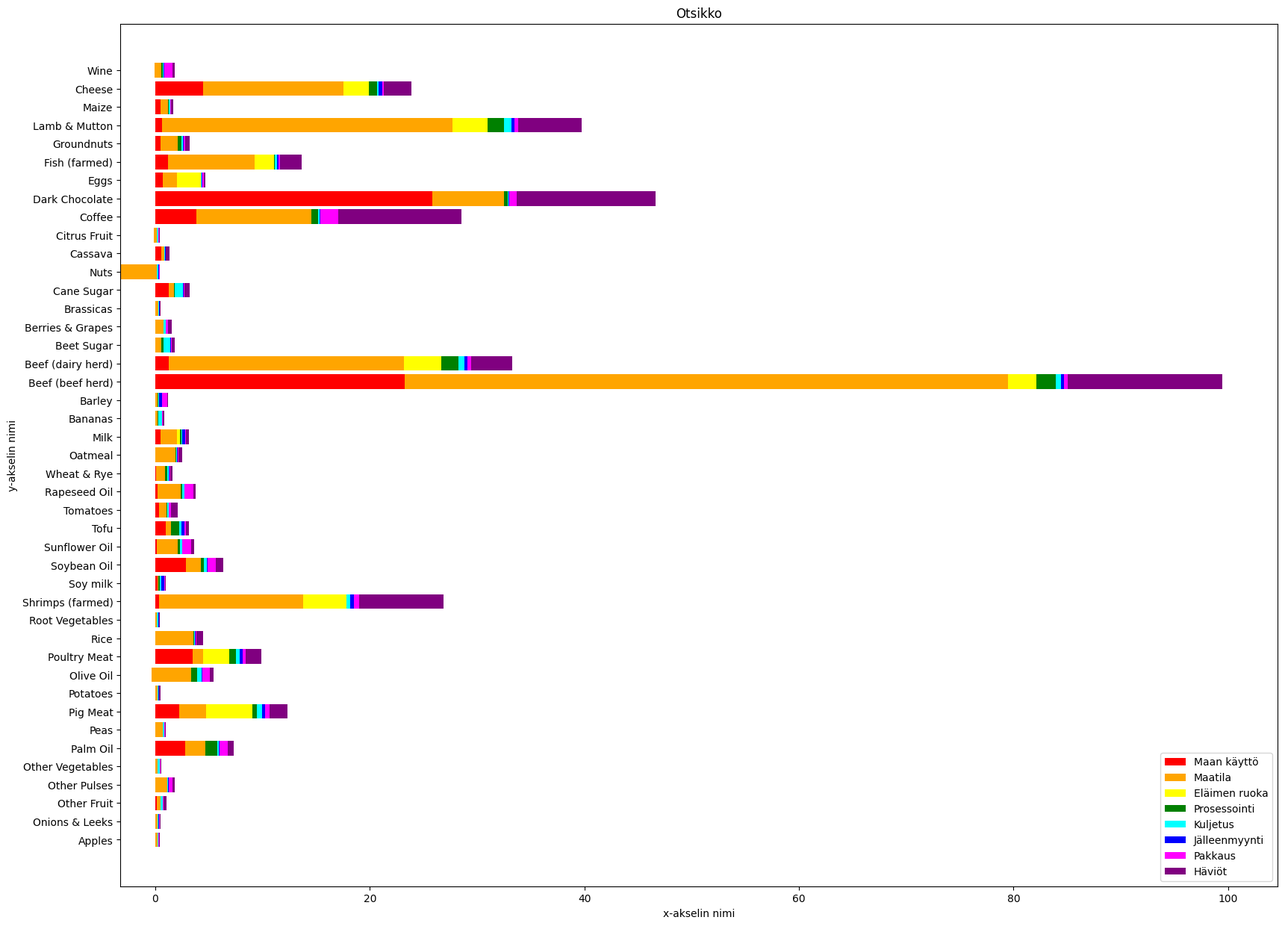
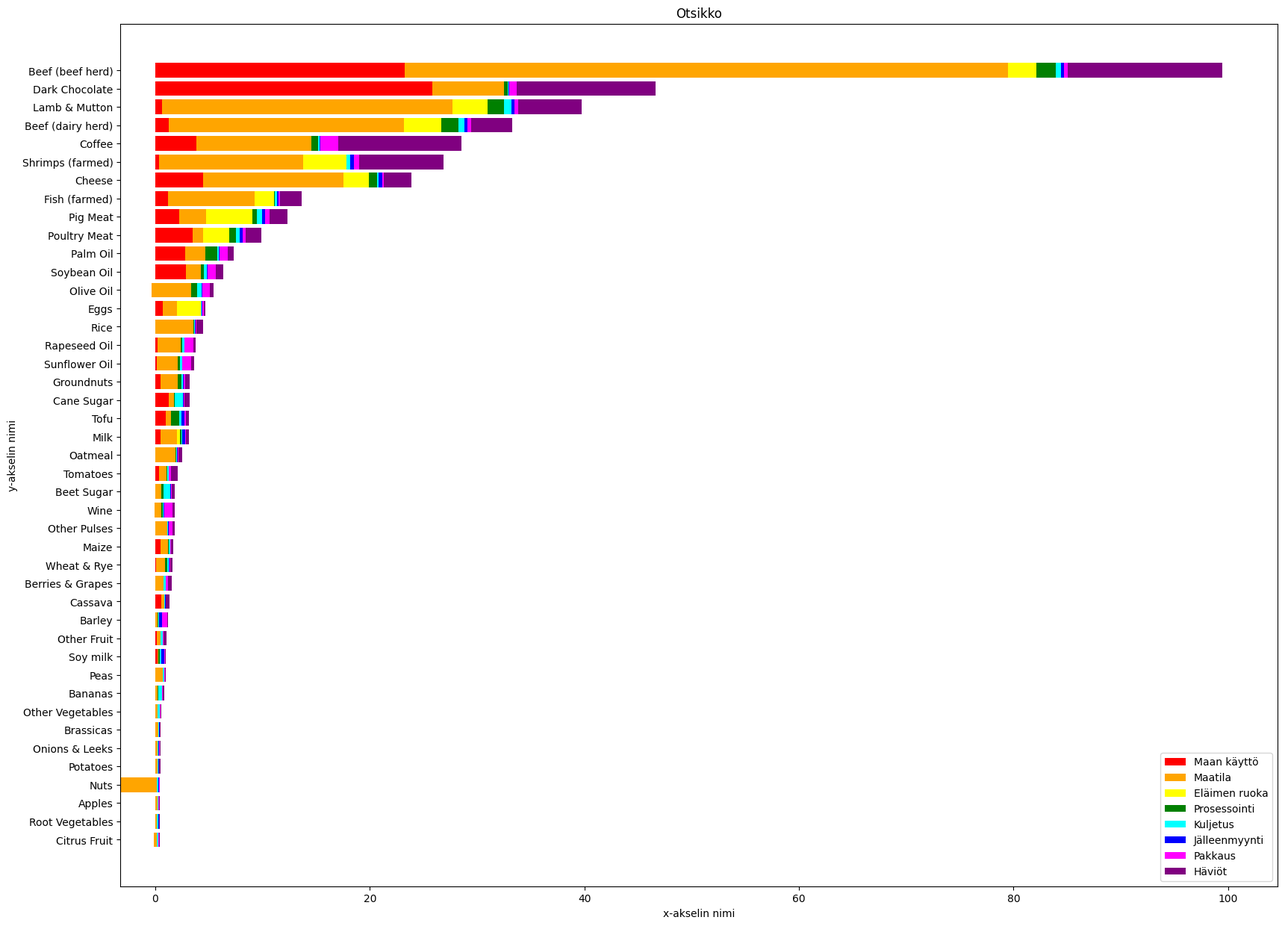
deploy: 84378028257fc03b229e8eb6b6ce66b5f5c8b4b9

Changed region(s): [[0.0308, 0.0613, 0.9547, 0.4597], [0.0308, 0.4903, 0.3388, 0.9194]]

diff --git a/searchindex.js b/searchindex.js
@@ -1,1 +1,1 @@
-Search.setIndex({docnames:["harjoitukset/mallipohjat","harjoitukset/pylvasdiagrammi1","harjoitukset/viivakuvaaja1","harjoitukset/viivakuvaaja2","intro"],envversion:{"sphinx.domains.c":2,"sphinx.domains.changeset":1,"sphinx.domains.citation":1,"sphinx.domains.cpp":5,"sphinx.domains.index":1,"sphinx.domains.javascript":2,"sphinx.domains.math":2,"sphinx.domains.python":3,"sphinx.domains.rst":2,"sphinx.domains.std":2,"sphinx.ext.intersphinx":1,sphinx:56},filenames:["harjoitukset/mallipohjat.md","harjoitukset/pylvasdiagrammi1.ipynb","harjoitukset/viivakuvaaja1.ipynb","harjoitukset/viivakuvaaja2.ipynb","intro.md"],objects:{},objnames:{},objtypes:{},terms:{"0":[1,2,3],"000000":1,"003820":1,"008676":1,"016578":1,"020981":1,"025534":1,"028951":1,"035351":1,"044526":1,"060146":1,"065670":1,"070692":1,"070808":1,"095804":1,"1":3,"10":[1,3],"1000":2,"1020":2,"1030":2,"11":[2,3],"12":[1,3],"127703":1,"13":3,"14":[1,3],"140":3,"15":[1,3],"16":3,"17":3,"175185":1,"176377":1,"18":3,"1850":2,"1860":2,"1870":2,"19":3,"1900":3,"1910":3,"1920":3,"1930":[2,3],"1940":[2,3],"1950":[2,3],"1960":[2,3],"1961":2,"1962":2,"1963":2,"1964":2,"1965":2,"1966":2,"1967":2,"1968":2,"1969":2,"1970":[2,3],"1971":2,"1972":2,"1973":2,"1974":2,"1975":2,"1976":2,"1977":2,"1978":2,"1979":2,"1980":[2,3],"1981":2,"1982":2,"1983":2,"1984":2,"1985":2,"1986":2,"1987":2,"1988":2,"1989":2,"1990":[2,3],"1991":2,"1992":2,"1993":2,"1994":2,"1995":2,"1996":2,"1997":2,"1998":2,"1999":2,"2":[1,2],"20":[1,3],"2000":[2,3],"2001":[2,3],"2002":[2,3],"2003":[2,3],"2004":[2,3],"2005":[2,3],"2006":[2,3],"2007":[2,3],"2008":[2,3],"2009":[2,3],"2010":[2,3],"2011":[2,3],"2012":[2,3],"2013":[2,3],"2014":[2,3],"2015":[2,3],"2016":3,"2017":3,"2018":[1,3],"2019":3,"2020":3,"2021":3,"2030":2,"21":[1,3],"22":3,"2200":2,"2250":2,"225816":1,"228063":1,"23":[1,3],"233538":1,"2360":2,"237536":1,"24":3,"2480":2,"25":3,"254032":1,"26":3,"263587":1,"266022":1,"267":2,"2680":2,"269":2,"269618":1,"27":3,"273":2,"276":2,"279":2,"28":3,"280":2,"282":2,"286":2,"2890":2,"29":3,"294":2,"295830":1,"298":2,"3":[1,2,3],"30":3,"301":2,"306":2,"3070":2,"31":3,"3130":2,"315":2,"319":2,"324":2,"334":2,"3340":2,"343":2,"350":2,"352084":1,"357":2,"363":2,"365":2,"3670":2,"371":2,"374549":1,"385":2,"3870":2,"389":2,"3940":2,"397":2,"399":2,"4":[1,2,3],"415":2,"416":2,"417":2,"4180":2,"4190":2,"421":2,"424":2,"4380":2,"439998":1,"440":2,"4460":2,"450":2,"4510":2,"4520":2,"459":2,"466":2,"4660":2,"472":2,"4810":2,"4820":2,"485":2,"4910":2,"492":2,"4930":2,"494125":1,"4960":2,"496786":1,"5":[2,3],"502":2,"503673":1,"51":2,"515":2,"5150":2,"521":2,"522":2,"5270":2,"534":2,"5380":2,"545":2,"547664":1,"5480":2,"552":2,"5590":2,"56":1,"562":2,"5620":2,"5660":2,"5690":2,"57":2,"5740":2,"5750":2,"578":2,"5920":2,"592410":1,"5960":2,"5970":2,"599":2,"6":[1,3],"606":2,"6070":2,"6120":2,"6210":2,"6260":2,"6270":2,"6280":2,"6320":2,"637":2,"6410":2,"6540":2,"6560":2,"6670":2,"6730":2,"680":2,"680979":1,"6830":2,"688":2,"6970":2,"7":3,"707":2,"7080":2,"711":2,"7110":2,"7130":2,"7190":2,"72":2,"7220":2,"729":2,"732":2,"7480":2,"7570":2,"7600":2,"765":2,"7650":2,"8":3,"801":2,"808":2,"811083":1,"8130":2,"8370":2,"847515":1,"863":2,"865":2,"8720":2,"9":3,"90":1,"904":2,"915529":1,"944":2,"973":2,"alarivill\u00e4":3,"alkuper\u00e4isest\u00e4":1,"datasetiss\u00e4":1,"datasetist\u00e4":1,"datasetti\u00e4":[1,3],"eiv\u00e4t":1,"el\u00e4imen":1,"enemm\u00e4n":1,"ensimm\u00e4inen":[1,2],"ensimm\u00e4isen":1,"esimerkkin\u00e4":2,"etsit\u00e4\u00e4n":2,"ett\u00e4":[1,2],"h\u00e4vi\u00f6t":1,"hetki\u00e4":1,"hiilidioksidip\u00e4\u00e4st\u00f6ist\u00e4":2,"hiilidioksidip\u00e4\u00e4st\u00f6t":1,"hiilip\u00e4\u00e4st\u00f6ist\u00e4":1,"hiilip\u00e4\u00e4st\u00f6t":1,"hyp\u00e4t\u00e4":1,"import":[1,2,3],"j\u00e4\u00e4":2,"j\u00e4lkeen":1,"j\u00e4lleen":1,"j\u00e4lleenmyynti":1,"j\u00e4rjestell\u00e4":1,"j\u00e4rjestyksess\u00e4":1,"k\u00e4\u00e4nt\u00e4\u00e4":1,"k\u00e4y":1,"k\u00e4ynnist\u00e4\u00e4":4,"k\u00e4ytet\u00e4\u00e4n":2,"k\u00e4ytt\u00e4\u00e4":[1,2,3,4],"k\u00e4ytt\u00f6":1,"k\u00e4ytt\u00f6\u00f6n":[1,2,3],"ker\u00e4t\u00e4\u00e4n":2,"ker\u00e4tti":[1,2],"kesken\u00e4\u00e4n":[1,2],"kest\u00e4\u00e4":4,"kokonaisp\u00e4\u00e4st\u00f6il":1,"kokonaisp\u00e4\u00e4st\u00f6jen":1,"kokonaisp\u00e4\u00e4st\u00f6t":1,"kynnyksell\u00e4":[1,2,3],"kyseist\u00e4":1,"l\u00e4hell\u00e4":3,"l\u00e4hestymistavaksi":4,"l\u00e4hiruoka":1,"l\u00e4htien":[2,3],"l\u00f6ydetty\u00e4":2,"l\u00f6yt\u00e4\u00e4":1,"l\u00f6ytyi":3,"l\u00f6ytyv\u00e4n":[1,2,3],"liittyv\u00e4t":2,"lis\u00e4\u00e4t":[1,2,3],"lis\u00e4t\u00e4\u00e4n":[2,3],"lukum\u00e4\u00e4r\u00e4":3,"m\u00e4\u00e4ritet\u00e4\u00e4n":1,"maank\u00e4yt\u00f6st\u00e4":1,"meid\u00e4n":1,"mill\u00e4":2,"milt\u00e4":[1,2],"miss\u00e4":1,"mist\u00e4":[1,2],"mit\u00e4":1,"my\u00f6":[1,2,3,4],"n\u00e4hd\u00e4\u00e4n":[1,2],"n\u00e4ist\u00e4":4,"n\u00e4it\u00e4":2,"n\u00e4kym\u00e4\u00e4n":3,"n\u00e4kyviin":1,"n\u00e4m\u00e4":1,"n\u00e4ytt\u00e4\u00e4":[1,2,3],"n\u00e4ytt\u00e4m\u00e4\u00e4n":3,"nimelt\u00e4":1,"nimi\u00e4":[1,2,3],"p\u00e4\u00e4st\u00f6jen":1,"p\u00e4\u00e4st\u00f6t":1,"piirret\u00e4\u00e4n":[1,2,3],"piirt\u00e4\u00e4":2,"piirt\u00e4m\u00e4ll\u00e4":1,"pit\u00e4\u00e4":1,"pitk\u00e4\u00e4n":1,"pohdintateht\u00e4v\u00e4t":1,"py\u00f6r\u00e4ytt\u00e4\u00e4":1,"pylv\u00e4":1,"pylv\u00e4\u00e4n":1,"pylv\u00e4\u00e4t":1,"pylv\u00e4iden":1,"pylv\u00e4sdiagrammeja":1,"pylv\u00e4sdiagrammien":1,"pylv\u00e4sdiagrammin":1,"pylv\u00e4sdiagrammit":1,"pyyhki\u00e4":1,"riitt\u00e4\u00e4":1,"rivill\u00e4":[1,2],"rivilt\u00e4":1,"rivist\u00e4":2,"s\u00e4hk\u00f6postia":[1,2,3],"selv\u00e4ksi":1,"selvitt\u00e4\u00e4":2,"sielt\u00e4":2,"siistilt\u00e4":3,"siistimpi\u00e4":1,"siit\u00e4":[1,3],"sis\u00e4ll":3,"sis\u00e4llysluettelosta":4,"sis\u00e4lt\u00e4\u00e4":1,"sis\u00e4lt\u00e4v\u00e4t":4,"sit\u00e4":[1,2],"sit\u00e4h\u00e4n":2,"suuruusj\u00e4rjestykseen":1,"suuruusj\u00e4rjestyksess\u00e4":1,"syntyv\u00e4t":1,"t\u00e4\u00e4lt\u00e4":[1,2,3],"t\u00e4h\u00e4n":1,"t\u00e4ll\u00e4":2,"t\u00e4ll\u00f6in":2,"t\u00e4lle":4,"t\u00e4m\u00e4n":[1,2,3],"t\u00e4nne":1,"t\u00e4ss\u00e4":[1,3,4],"t\u00e4ss\u00e4kin":1,"t\u00e4st\u00e4":1,"t\u00e4st\u00e4kin":1,"t\u00e4t\u00e4":[1,2,3],"t\u00e4ynn\u00e4":1,"tehd\u00e4":[1,2,3],"tehd\u00e4\u00e4n":1,"tehtyj\u00e4":4,"tekem\u00e4ss\u00e4":1,"tekemisess\u00e4":[1,4],"ty\u00f6t\u00e4":1,"v\u00e4h\u00e4n":[1,2,3],"v\u00e4ri":1,"v\u00e4rit":[2,3],"viimeistellymm\u00e4n":4,"yksitt\u00e4inen":1,"yksitt\u00e4isten":4,"yl\u00e4nurkassa":3,"yleens\u00e4":1,"ylh\u00e4\u00e4ll\u00e4":4,"ymp\u00e4rill":[1,2,3],"ymp\u00e4rist\u00f6yst\u00e4v\u00e4llist\u00e4":1,In:1,aikaisemmin:2,aina:1,aineiden:[1,2],ainekset:3,aks:3,akselil:1,akselin:[1,2,3],albania:2,alempana:1,alkamaan:1,alkamispaikka:1,alkupaikka:1,all:3,alla:4,angola:2,annettu:[1,2],appl:1,apua:[1,4],aqua:1,arab:2,argentina:2,armenia:2,asiat:[1,2],asioista:2,asioita:3,asteroid:3,asteroideista:3,asteroidia:3,asteroidien:3,asteroidit:3,asukasta:2,avaa:4,avaruusraketin:4,avautuu:4,avulla:3,ax:3,axhlin:1,axvlin:1,banana:1,bar:1,barh:1,barlei:1,beef:1,between_140m_and_1km:3,binder:4,blue:[1,2,3],bookissa:4,bottom:1,chain:1,code:[1,3],color:[1,2,3],column:2,com:[1,2,3],countri:2,csv:[1,2,3],dairi:1,data1:1,data2:1,data3:1,data4:1,data5:1,data6:1,data7:1,data8:1,dataa:2,datasetin:[1,3],datasetti:1,datasettiin:1,datatiedosto:[1,2],datatiedoston:[1,2,3],datatiedostona:2,datatiedostosta:[1,2,3],discov:3,dtype:3,earth:3,edellisen:1,educ:[1,2,3],ei:[1,2,3],eli:[1,2],emir:2,emiss:1,energia_per_asuka:2,energiankulutukseen:2,energiankulutukset:2,energiankulutusta:2,energy_use_per_person:2,ensin:1,entiti:[1,3],eri:1,erikseen:1,erilaiset:2,erilaisten:1,eritelti:3,esimerkiksi:[1,2],esimerkki:1,esitelti:[1,3],fig:3,figsiz:1,figur:1,finland:2,float_:2,food:1,food_emissions_animal_fe:1,food_emissions_farm:1,food_emissions_land_us:1,food_emissions_loss:1,food_emissions_packag:1,food_emissions_process:1,food_emissions_retail:1,food_emissions_transport:1,fuchsia:1,githubiin:[1,2],githubusercont:[1,2,3],googlesta:[1,2,3],green:[1,3],grei:1,haittaa:1,hakasulkeisiin:[2,3],hakasulkeissa:2,haluaisit:2,haluamasi:4,haluamastasi:3,haluat:[1,3],haluatkin:3,haluta:2,halutaan:1,haluttiin:1,haluttu:2,halutun:2,halutut:[1,2,3],harjoittelu:2,harjoitu:4,hauskaa:3,havainnollistaa:3,havaittu:3,head:[1,2,3],helpommaksi:4,helpomman:1,helpompi:3,helpompiin:1,herd:1,hieman:[1,4],hipsuja:2,homma:2,horisontaalinen:1,horisontaaliseen:1,horisontaalista:1,http:[1,2,3],huom:4,i:1,ilmestyi:1,indent:1,indentationerror:1,india:2,innostusta:1,input:1,int64:3,int_:2,intia:2,intialaisten:2,isot:3,its:1,ja:[1,2,3],jatketaan:1,jo:[1,3],joihin:[1,2,3],joita:4,joitakin:4,joka:[1,2,3],jokainen:1,jokaisella:1,jokaiselta:1,jokaisen:1,joko:1,jolloin:3,jonka:3,jonkin:[1,2,3],joskin:4,jostain:3,jotka:1,jotta:1,jupyt:4,kaikki:[1,3],katsotaan:1,kenti:[2,3],kerrallaan:2,kerran:1,keskikokoiset:3,kirjaston:3,klikkaa:4,km:3,kohden:2,kohtaa:1,kokoa:1,kokoluokkaan:3,kolm:3,kolma:1,komennoksi:[1,2],komennolla:[1,2,3],komennon:[2,3],komento:1,komentoa:2,komentoon:1,koon:1,koostuvat:1,koottu:4,koska:[1,2],ks:4,kuin:1,kuinka:[1,3],kuitenkin:1,kuljetu:1,kumulatiivisen:1,kumulatiivisia:1,kumulatiivisilla:3,kun:[1,2],kunn:1,kurkataan:3,kuten:2,kuuluvat:3,kuva:4,kuvaa:4,kuvaaja:[1,3],kuvaajaa:[1,3],kuvaajaan:1,kuvaajan:[1,2],kuvaajien:[3,4],kuvaajilla:3,label:[1,2,3],ladataan:[1,2,3],ladattu:[1,2],laitetaan:1,laittaa:[1,2,3],lajitellaan:1,lajitellusta:1,lajittelua:1,larger_than_1km:3,lasketaan:1,laskettu:1,laskuun:1,left:[1,3],legend:[1,2,3],len:1,list:2,listaan:[1,2],listassa:2,listattuna:2,listaukset:2,loc:[1,2,3],lopputuloksen:4,lopulliset:1,lopusta:1,loputkin:3,lower:1,luet:[1,2,3],luetaan:[1,2],luvuiksi:2,luvulta:3,m:3,maa:2,maan:[1,2],maan_kaytto:1,maata:3,maatila:1,mahdollistamat:1,main:[1,2,3],mallipohjana:[1,2,3],mallipohjasta:1,mallipohjat:[1,4],mallipohjia:4,matalalla:[1,2,3],materiaali:[1,3],materiaalien:4,materiaalin:4,matplotlib:[1,2,3],me:2,meill:[1,2,3],mene:1,mielenkiintoista:1,mihin:3,miksi:1,minuutteja:4,miten:1,molemmat:[1,2],molemmilla:2,molempiin:1,monipuolisempaan:1,monta:[1,3],muista:1,mukaan:[1,2],mukavasti:1,mukavia:1,muodostetaan:3,muokata:1,muokkaa:1,muokkailet:[1,2,3],mutta:1,muutamien:1,muuttaa:[1,2],muuttuja:1,muuttujaan:[1,3],muuttujien:[1,2,3],muuttujiin:1,mybinderissa:4,name:3,nan:[1,2],napattu:1,ne:[1,3],niiden:1,niin:[1,2,3],nimet:[1,2,3],nimi:[1,2,3],nollaa:1,nollat:1,nollia:1,nollineen:1,nopeasti:1,nostaa:2,notebook:4,notebookilla:4,np:[1,2],numero:2,numeroita:1,numerosta:2,numerot:2,numpi:[1,2],nyt:[1,4],ohjeita:4,ohjetta:4,oikealla:4,oikealta:1,oikeassa:1,oikein:2,ol:1,olemaan:1,olennaisten:1,olet:1,oleva:2,olevaa:4,olevan:3,olevasta:4,olevat:2,olevien:1,oli:1,olisi:1,oman:[1,2,3,4],omien:4,omiin:[1,3],ongelmia:[1,2,3],onko:1,onneksi:1,opendata:[1,2,3],orang:1,osuuden:1,ota:1,otsikko:[1,2,3],otsikot:2,ottaa:1,ovat:1,ovatkaan:1,over:3,owid_wrl:3,paina:4,painiketta:4,painopist:4,pakkau:1,pakotetaan:3,panda:[1,2,3],pariin:1,pd:[1,2,3],perusteella:3,pienet:3,pienten:3,piirretti:1,pituu:1,plot:[2,3],plt:[1,2,3],pohdittavaa:1,pohjana:4,pohjista:4,poi:[1,2],poimitaan:3,poimittu:3,printataan:1,prosessointi:1,punainen:1,purpl:1,pyplot:[1,2,3],rajataan:3,rajauksen:3,rang:1,raw:[1,2,3],read_csv:[1,2,3],red:[1,2,3],right:1,rivi:[1,2],rivin:[1,3],rivinumero:2,rotat:1,row:2,ruoka:[1,2],ruokien:1,ruuan:1,ruuan_paastot:1,ruuan_paastot_lajiteltu2:1,ruuan_paastot_lajiteltu:1,ruuat2:1,ruuat:1,ruuill:1,saadaan:1,saakka:2,saamiseksi:4,sama:2,sarak:[1,2],saraketta:1,sarakkeeksi:1,sarakkeen:[1,3],sarakkeeseen:2,sarakkeet:2,sarakkeiden:[1,2,3],sarakkeisiin:3,sarjaa:1,se:[1,3,4],sekaisin:1,sekavalta:1,sekoituksia:1,sektoreista:1,sektoreittain:1,selkeyden:1,selvitettiin:2,sen:[1,3],set_xlim:3,seuraamalla:4,seuraava:1,show:[1,2,3],sii:[1,2],siihen:[1,3],sijasta:2,sill:1,sinn:1,sinul:4,sinun:1,sitten:1,sivul:4,smaller_than_140m:3,sopivaksi:1,sopivan:1,sopivat:[1,2,3],sort_valu:1,stackplot:3,subplot:3,summaamalla:1,summan:1,suomalaisten:2,suomen:2,suomi:2,suoraan:3,suoraviivaista:1,suppli:1,suunniteltu:4,suunnittelun:4,suuria:1,suuruuden:1,suuruudet:1,syntyvien:1,taa:1,tai:[1,3],takaa:3,takaisin:1,tallennetaan:1,tallennettavat:1,tallentaa:[1,3],tapa:3,tapauksessa:[1,2,3],tarjolla:1,tarkastella:1,tarkasteltavaksi:1,tarkastelun:1,tarkasteluun:[1,2,3],tarkistetaan:1,tarkoittaa:2,tarkoituksena:2,tarvinnut:1,tarvitaan:1,tarvitset:3,tavalla:2,tekeminen:1,tekemiseen:4,tekstit:[1,2,3],testailemalla:1,tiedoista:1,tiedosta:1,tiedosto:[1,2],tiedostoa:[1,2,3],tiedostossa:2,tiedot:[1,3],tieto:[1,3],tietojen:3,tietokirjastot:[1,2,3],tietysti:3,time:3,tiputtaa:2,titl:[1,2,3],toimii:2,toimintaideana:1,toinen:[1,2],toisen:1,toisiinsa:1,toisinaan:3,toistetaan:1,toivottavasti:[1,4],total:1,toteuttaa:3,tule:[1,2,3],tulevat:1,tulisi:[1,2],tulostaa:[2,3],tunnu:[1,2,3],tuppaa:1,tyopajat:3,unexpect:1,unit:2,upper:3,useammankin:3,useat:4,usein:2,useita:1,uskoa:1,uudestaan:1,uusi:1,uuteen:1,uutta:1,vaihda:1,vaihtaa:1,vaihtamalla:1,vaihtelemalla:1,vaikealta:1,vain:[1,2,3],valita:2,valitaan:[1,2,3],valitsemalla:4,valitsemasi:1,valitset:1,valittu:[1,2],valmiiksi:1,valmistellaan:[2,3],valtioihin:2,valtiokohtaiset:2,valu:2,varmaan:1,varsin:1,varten:[1,3],vasemmalla:4,vasemmassa:3,vastaava:1,vastaavasti:1,vastausta:[1,2,3],vertaillaan:2,vertailtavista:2,vertailun:2,vertautuvat:1,vertikaalinen:1,vertikaaliseen:1,vertikaalisen:1,vertikaalista:1,viimeiseen:2,viivaa:3,viivakuvaajan:[2,3],viivan:1,viivat:2,viivojen:[2,3],virhekoodi:1,voi:[1,2,3,4],voidaan:[1,2,3],voit:[1,2,3,4],vuodet:[2,3],vuoksi:[1,2],vuosi:2,vuosilukujen:2,vuosiluvut:3,vuosina:2,world:3,x:[1,2,3],xlabel:[1,2,3],xtick:1,y:[1,2,3],year:[1,3],yellow:1,yhden:[1,3],yht:1,yhteen:[1,2],yksi:[1,2],yksinkertainen:3,ylabel:[1,2,3],yleisesti:1,yli:3,zero:1},titles:["Mallipohjat","Pylv\u00e4sdiagrammi 1 \u2013\u00a0data sarakkeesta","Viivakuvaaja 1 - data yhdelt\u00e4 rivilt\u00e4","Viivakuvaaja 2 - data yhdest\u00e4 sarakkeesta","Tervetuloa avoimen datan pariin"],titleterms:{"1":[1,2],"2":3,"k\u00e4ynnist\u00e4minen":4,"lis\u00e4t\u00e4":2,"pylv\u00e4sdiagrammi":1,"rivilt\u00e4":2,"t\u00e4m\u00e4":[1,2,3],"t\u00e4rke\u00e4\u00e4":1,"t\u00e4ss\u00e4":2,"t\u00e4st\u00e4":3,"yhdelt\u00e4":2,"yhdest\u00e4":[1,3],avoimen:4,binderissa:4,data:[1,2,3],datan:4,datasta:3,haluat:2,huomata:1,jo:2,koodi:2,kumulatiivinen:1,kumulatiivisen:3,kuvaajaan:2,kuvaajan:3,mallipohjat:0,muokattavaksi:[1,2,3],notebookin:4,pariin:4,pohja:[1,2,3],rivin:2,samasta:3,sarakkeesta:[1,3],siihen:2,sinul:[1,2,3],tapau:3,tehti:[1,2,3],tekeminen:3,tervetuloa:4,tiedot:2,toisen:2,useamman:3,viivakuvaaja:[2,3],viivan:3}})
+Search.setIndex({docnames:["harjoitukset/mallipohjat","harjoitukset/pylvasdiagrammi1","harjoitukset/viivakuvaaja1","harjoitukset/viivakuvaaja2","intro"],envversion:{"sphinx.domains.c":2,"sphinx.domains.changeset":1,"sphinx.domains.citation":1,"sphinx.domains.cpp":5,"sphinx.domains.index":1,"sphinx.domains.javascript":2,"sphinx.domains.math":2,"sphinx.domains.python":3,"sphinx.domains.rst":2,"sphinx.domains.std":2,"sphinx.ext.intersphinx":1,sphinx:56},filenames:["harjoitukset/mallipohjat.md","harjoitukset/pylvasdiagrammi1.ipynb","harjoitukset/viivakuvaaja1.ipynb","harjoitukset/viivakuvaaja2.ipynb","intro.md"],objects:{},objnames:{},objtypes:{},terms:{"0":[1,2,3],"000000":1,"003820":1,"008676":1,"016578":1,"020981":1,"025534":1,"028951":1,"035351":1,"044526":1,"060146":1,"065670":1,"070692":1,"070808":1,"095804":1,"1":3,"10":[1,3],"1000":2,"1020":2,"1030":2,"11":[2,3],"12":[1,3],"1263451987":1,"127703":1,"13":3,"14":[1,3],"140":3,"15":[1,3],"16":3,"17":3,"175185":1,"176377":1,"179171":1,"18":3,"1850":2,"1860":2,"1870":2,"19":3,"1900":3,"1910":3,"1920":3,"1930":[2,3],"1940":[2,3],"1950":[2,3],"1960":[2,3],"1961":2,"1962":2,"1963":2,"1964":2,"1965":2,"1966":2,"1967":2,"1968":2,"1969":2,"1970":[2,3],"1971":2,"1972":2,"1973":2,"1974":2,"1975":2,"1976":2,"1977":2,"1978":2,"1979":2,"1980":[2,3],"1981":2,"1982":2,"1983":2,"1984":2,"1985":2,"1986":2,"1987":2,"1988":2,"1989":2,"1990":[2,3],"1991":2,"1992":2,"1993":2,"1994":2,"1995":2,"1996":2,"1997":2,"1998":2,"1999":2,"2":[1,2],"20":[1,3],"2000":[2,3],"2001":[2,3],"2002":[2,3],"2003":[2,3],"2004":[2,3],"2005":[2,3],"2006":[2,3],"2007":[2,3],"2008":[2,3],"2009":[2,3],"2010":[2,3],"2011":[2,3],"2012":[2,3],"2013":[2,3],"2014":[2,3],"2015":[2,3],"2016":3,"2017":3,"2018":[1,3],"2019":3,"2020":3,"2021":3,"2030":2,"21":[1,3],"22":3,"2200":2,"2250":2,"225816":1,"228063":1,"23":[1,3],"233538":1,"2360":2,"237536":1,"24":3,"2480":2,"25":3,"254032":1,"26":3,"263587":1,"266022":1,"267":2,"2680":2,"269":2,"269618":1,"27":3,"273":2,"276":2,"279":2,"28":3,"280":2,"282":2,"286":2,"2890":2,"29":3,"294":2,"295830":1,"298":2,"3":[1,2,3],"30":3,"301":2,"301395":1,"306":2,"3070":2,"31":3,"3130":2,"315":2,"319":2,"324":2,"33":1,"334":2,"3340":2,"343":2,"350":2,"352084":1,"357":2,"363":2,"365":2,"3670":2,"371":2,"374549":1,"385":2,"3870":2,"389":2,"3940":2,"397":2,"399":2,"4":[1,2,3],"415":2,"416":2,"417":2,"4180":2,"4190":2,"421":2,"424":2,"428401":1,"4380":2,"439998":1,"440":2,"4460":2,"450":2,"4510":2,"4520":2,"459":2,"466":2,"4660":2,"472":2,"477405":1,"4810":2,"4820":2,"485":2,"4910":2,"492":2,"4930":2,"494125":1,"4960":2,"496786":1,"5":[1,2,3],"502":2,"503673":1,"51":2,"515":2,"5150":2,"521":2,"522":2,"5270":2,"534":2,"5380":2,"545":2,"547664":1,"5480":2,"552":2,"5590":2,"56":1,"562":2,"5620":2,"5660":2,"5690":2,"57":2,"5740":2,"5750":2,"578":2,"5920":2,"592410":1,"5960":2,"5970":2,"599":2,"6":3,"606":2,"6070":2,"6120":2,"6210":2,"6260":2,"6270":2,"6280":2,"6320":2,"637":2,"6410":2,"6540":2,"6560":2,"6670":2,"6730":2,"680":2,"680979":1,"6830":2,"688":2,"6970":2,"7":3,"707":2,"7080":2,"711":2,"7110":2,"7130":2,"7190":2,"72":2,"7220":2,"729":2,"732":2,"7480":2,"7570":2,"7600":2,"765":2,"7650":2,"8":3,"801":2,"808":2,"811083":1,"8130":2,"8370":2,"847515":1,"861896":1,"863":2,"865":2,"8720":2,"9":3,"90":1,"904":2,"915529":1,"944":2,"973":2,"99":1,"alarivill\u00e4":3,"alkuper\u00e4isest\u00e4":1,"datasetiss\u00e4":1,"datasetist\u00e4":1,"datasetti\u00e4":[1,3],"eiv\u00e4t":1,"el\u00e4imen":1,"enemm\u00e4n":1,"ensimm\u00e4inen":[1,2],"ensimm\u00e4isen":1,"esimerkkin\u00e4":2,"etsit\u00e4\u00e4n":2,"ett\u00e4":[1,2],"h\u00e4vi\u00f6t":1,"hetki\u00e4":1,"hiilidioksidip\u00e4\u00e4st\u00f6ist\u00e4":2,"hiilidioksidip\u00e4\u00e4st\u00f6t":1,"hiilip\u00e4\u00e4st\u00f6ist\u00e4":1,"hiilip\u00e4\u00e4st\u00f6t":1,"hyp\u00e4t\u00e4":1,"import":[1,2,3],"j\u00e4\u00e4":2,"j\u00e4lkeen":1,"j\u00e4lleen":1,"j\u00e4lleenmyynti":1,"j\u00e4rjestell\u00e4":1,"j\u00e4rjestyksess\u00e4":1,"k\u00e4\u00e4nt\u00e4\u00e4":1,"k\u00e4y":1,"k\u00e4ynnist\u00e4\u00e4":4,"k\u00e4ytet\u00e4\u00e4n":2,"k\u00e4ytt\u00e4\u00e4":[1,2,3,4],"k\u00e4ytt\u00f6":1,"k\u00e4ytt\u00f6\u00f6n":[1,2,3],"ker\u00e4t\u00e4\u00e4n":2,"ker\u00e4tti":[1,2],"kesken\u00e4\u00e4n":[1,2],"kest\u00e4\u00e4":4,"kokonaisp\u00e4\u00e4st\u00f6il":1,"kokonaisp\u00e4\u00e4st\u00f6jen":1,"kokonaisp\u00e4\u00e4st\u00f6t":1,"kynnyksell\u00e4":[1,2,3],"kyseist\u00e4":1,"l\u00e4hell\u00e4":3,"l\u00e4hestymistavaksi":4,"l\u00e4hiruoka":1,"l\u00e4htien":[2,3],"l\u00f6ydetty\u00e4":2,"l\u00f6yt\u00e4\u00e4":1,"l\u00f6ytyi":3,"l\u00f6ytyv\u00e4n":[1,2,3],"liittyv\u00e4t":2,"lis\u00e4\u00e4t":[1,2,3],"lis\u00e4t\u00e4\u00e4n":[2,3],"lukum\u00e4\u00e4r\u00e4":3,"m\u00e4\u00e4ritet\u00e4\u00e4n":1,"maank\u00e4yt\u00f6st\u00e4":1,"meid\u00e4n":1,"mill\u00e4":2,"milt\u00e4":[1,2],"miss\u00e4":1,"mist\u00e4":[1,2],"mit\u00e4":1,"my\u00f6":[1,2,3,4],"n\u00e4hd\u00e4\u00e4n":[1,2],"n\u00e4ist\u00e4":4,"n\u00e4it\u00e4":2,"n\u00e4kym\u00e4\u00e4n":3,"n\u00e4kyviin":1,"n\u00e4m\u00e4":1,"n\u00e4ytt\u00e4\u00e4":[1,2,3],"n\u00e4ytt\u00e4m\u00e4\u00e4n":3,"nimelt\u00e4":1,"nimi\u00e4":[1,2,3],"p\u00e4\u00e4st\u00f6jen":1,"p\u00e4\u00e4st\u00f6t":1,"piirret\u00e4\u00e4n":[1,2,3],"piirt\u00e4\u00e4":2,"piirt\u00e4m\u00e4ll\u00e4":1,"pit\u00e4\u00e4":1,"pitk\u00e4\u00e4n":1,"pohdintateht\u00e4v\u00e4t":1,"py\u00f6r\u00e4ytt\u00e4\u00e4":1,"pylv\u00e4":1,"pylv\u00e4\u00e4n":1,"pylv\u00e4\u00e4t":1,"pylv\u00e4iden":1,"pylv\u00e4sdiagrammeja":1,"pylv\u00e4sdiagrammien":1,"pylv\u00e4sdiagrammin":1,"pylv\u00e4sdiagrammit":1,"pyyhki\u00e4":1,"return":1,"riitt\u00e4\u00e4":1,"rivill\u00e4":[1,2],"rivilt\u00e4":1,"rivist\u00e4":2,"s\u00e4hk\u00f6postia":[1,2,3],"selv\u00e4ksi":1,"selvitt\u00e4\u00e4":2,"sielt\u00e4":2,"siistilt\u00e4":3,"siistimpi\u00e4":1,"siit\u00e4":[1,3],"sis\u00e4ll":3,"sis\u00e4llysluettelosta":4,"sis\u00e4lt\u00e4\u00e4":1,"sis\u00e4lt\u00e4v\u00e4t":4,"sit\u00e4":[1,2],"sit\u00e4h\u00e4n":2,"suuruusj\u00e4rjestykseen":1,"suuruusj\u00e4rjestyksess\u00e4":1,"syntyv\u00e4t":1,"t\u00e4\u00e4lt\u00e4":[1,2,3],"t\u00e4h\u00e4n":1,"t\u00e4ll\u00e4":2,"t\u00e4ll\u00f6in":2,"t\u00e4lle":4,"t\u00e4m\u00e4n":[1,2,3],"t\u00e4nne":1,"t\u00e4ss\u00e4":[1,3,4],"t\u00e4ss\u00e4kin":1,"t\u00e4st\u00e4":1,"t\u00e4st\u00e4kin":1,"t\u00e4t\u00e4":[1,2,3],"tehd\u00e4":[1,2,3],"tehd\u00e4\u00e4n":1,"tehtyj\u00e4":4,"tekem\u00e4ss\u00e4":1,"tekemisess\u00e4":[1,4],"try":1,"ty\u00f6t\u00e4":1,"v\u00e4h\u00e4n":[1,2,3],"v\u00e4ri":1,"v\u00e4rit":[2,3],"viimeistellymm\u00e4n":4,"yksitt\u00e4inen":1,"yksitt\u00e4isten":4,"yl\u00e4nurkassa":3,"yleens\u00e4":1,"ylh\u00e4\u00e4ll\u00e4":4,"ymp\u00e4rill":[1,2,3],"ymp\u00e4rist\u00f6yst\u00e4v\u00e4llist\u00e4":1,A:1,aikaisemmin:2,aina:1,aineiden:[1,2],ainekset:3,aks:3,akselil:1,akselin:[1,2,3],albania:2,alempana:1,alkamaan:1,alkamispaikka:1,alkupaikka:1,all:3,alla:4,angola:2,annettu:[1,2],appl:1,apua:[1,4],aqua:1,arab:2,argentina:2,armenia:2,asiat:[1,2],asioista:2,asioita:3,asteroid:3,asteroideista:3,asteroidia:3,asteroidien:3,asteroidit:3,asukasta:2,avaa:4,avaruusraketin:4,avautuu:4,avulla:3,ax:3,axhlin:1,axvlin:1,banana:1,bar:1,barh:1,barlei:1,beef:1,between_140m_and_1km:3,binder:4,blue:[1,2,3],bookissa:4,bottom:1,caveat:1,chain:1,code:[1,3],color:[1,2,3],column:2,com:[1,2,3],copi:1,countri:2,csv:[1,2,3],dairi:1,data1:1,data2:1,data3:1,data4:1,data5:1,data6:1,data7:1,data8:1,dataa:2,datafram:1,datasetin:[1,3],datasetti:1,datasettiin:1,datatiedosto:[1,2],datatiedoston:[1,2,3],datatiedostona:2,datatiedostosta:[1,2,3],discov:3,doc:1,document:1,dtype:3,earth:3,edellisen:1,educ:[1,2,3],ei:[1,2,3],eli:[1,2],emir:2,emiss:1,energia_per_asuka:2,energiankulutukseen:2,energiankulutukset:2,energiankulutusta:2,energy_use_per_person:2,ensin:1,entiti:[1,3],eri:1,erikseen:1,erilaiset:2,erilaisten:1,eritelti:3,esimerkiksi:[1,2],esimerkki:1,esitelti:[1,3],fig:3,figsiz:1,figur:1,finland:2,float_:2,food:1,food_emissions_animal_fe:1,food_emissions_farm:1,food_emissions_land_us:1,food_emissions_loss:1,food_emissions_packag:1,food_emissions_process:1,food_emissions_retail:1,food_emissions_transport:1,from:1,fuchsia:1,githubiin:[1,2],githubusercont:[1,2,3],googlesta:[1,2,3],green:[1,3],grei:1,haittaa:1,hakasulkeisiin:[2,3],hakasulkeissa:2,haluaisit:2,haluamasi:4,haluamastasi:3,haluat:[1,3],haluatkin:3,haluta:2,halutaan:1,haluttiin:1,haluttu:2,halutun:2,halutut:[1,2,3],harjoittelu:2,harjoitu:4,hauskaa:3,havainnollistaa:3,havaittu:3,head:[1,2,3],helpommaksi:4,helpomman:1,helpompi:3,helpompiin:1,herd:1,hieman:[1,4],hipsuja:2,homma:2,horisontaalinen:1,horisontaaliseen:1,horisontaalista:1,html:1,http:[1,2,3],huom:4,i:1,ilmestyi:1,index:1,india:2,innostusta:1,int64:3,int_:2,intia:2,intialaisten:2,ipykernel_1721:1,isot:3,its:1,ja:[1,2,3],jatketaan:1,jo:[1,3],joihin:[1,2,3],joita:4,joitakin:4,joka:[1,2,3],jokainen:1,jokaisella:1,jokaiselta:1,jokaisen:1,joko:1,jolloin:3,jonka:3,jonkin:[1,2,3],joskin:4,jostain:3,jotka:1,jotta:1,jupyt:4,kaikki:[1,3],katsotaan:1,kenti:[2,3],kerrallaan:2,kerran:1,keskikokoiset:3,kirjaston:3,klikkaa:4,km:3,kohden:2,kohtaa:1,kokoa:1,kokoluokkaan:3,kolm:3,kolma:1,komennoksi:[1,2],komennolla:[1,2,3],komennon:[2,3],komento:1,komentoa:2,komentoon:1,koon:1,koostuvat:1,koottu:4,koska:[1,2],ks:4,kuin:1,kuinka:[1,3],kuitenkin:1,kuljetu:1,kumulatiivisen:1,kumulatiivisia:1,kumulatiivisilla:3,kun:[1,2],kunn:1,kurkataan:3,kuten:2,kuuluvat:3,kuva:4,kuvaa:4,kuvaaja:[1,3],kuvaajaa:[1,3],kuvaajaan:1,kuvaajan:[1,2],kuvaajien:[3,4],kuvaajilla:3,label:[1,2,3],ladataan:[1,2,3],ladattu:[1,2],laitetaan:1,laittaa:[1,2,3],lajitellaan:1,lajitellusta:1,lajittelua:1,larger_than_1km:3,lasketaan:1,laskettu:1,laskuun:1,left:[1,3],legend:[1,2,3],len:1,list:2,listaan:[1,2],listassa:2,listattuna:2,listaukset:2,loc:[1,2,3],lopputuloksen:4,lopulliset:1,lopusta:1,loputkin:3,lower:1,luet:[1,2,3],luetaan:[1,2],luvuiksi:2,luvulta:3,m:3,maa:2,maan:[1,2],maan_kaytto:1,maata:3,maatila:1,mahdollistamat:1,main:[1,2,3],mallipohjana:[1,2,3],mallipohjasta:1,mallipohjat:[1,4],mallipohjia:4,matalalla:[1,2,3],materiaali:[1,3],materiaalien:4,materiaalin:4,matplotlib:[1,2,3],me:2,meill:[1,2,3],mene:1,mielenkiintoista:1,mihin:3,miksi:1,minuutteja:4,miten:1,molemmat:[1,2],molemmilla:2,molempiin:1,monipuolisempaan:1,monta:[1,3],muista:1,mukaan:[1,2],mukavasti:1,mukavia:1,muodostetaan:3,muokata:1,muokkaa:1,muokkailet:[1,2,3],mutta:1,muutamien:1,muuttaa:[1,2],muuttuja:1,muuttujaan:[1,3],muuttujien:[1,2,3],muuttujiin:1,mybinderissa:4,name:3,nan:[1,2],napattu:1,ne:[1,3],niiden:1,niin:[1,2,3],nimet:[1,2,3],nimi:[1,2,3],nollaa:1,nollat:1,nollineen:1,nopeasti:1,nostaa:2,notebook:4,notebookilla:4,np:[1,2],numero:2,numeroita:1,numerosta:2,numerot:2,numpi:[1,2],nyt:[1,4],ohjeita:4,ohjetta:4,oikealla:4,oikealta:1,oikeassa:1,oikein:2,ol:1,olemaan:1,olennaisten:1,olet:1,oleva:2,olevaa:4,olevan:3,olevasta:4,olevat:2,olevien:1,oli:1,olisi:1,oman:[1,2,3,4],omien:4,omiin:[1,3],ongelmia:[1,2,3],onko:1,onneksi:1,opendata:[1,2,3],orang:1,org:1,osuuden:1,ota:1,otsikko:[1,2,3],otsikot:2,ottaa:1,ovat:1,ovatkaan:1,over:3,owid_wrl:3,paina:4,painiketta:4,painopist:4,pakkau:1,pakotetaan:3,panda:[1,2,3],pariin:1,pd:[1,2,3],perusteella:3,pienet:3,pienten:3,piirretti:1,pituu:1,plot:[2,3],plt:[1,2,3],pohdittavaa:1,pohjana:4,pohjista:4,poi:[1,2],poimitaan:3,poimittu:3,printataan:1,prosessointi:1,punainen:1,purpl:1,py:1,pydata:1,pyplot:[1,2,3],rajataan:3,rajauksen:3,rang:1,raw:[1,2,3],read_csv:[1,2,3],red:[1,2,3],right:1,rivi:[1,2],rivin:[1,3],rivinumero:2,rotat:1,row:2,ruoka:[1,2],ruokien:1,ruuan:1,ruuan_paastot:1,ruuan_paastot_lajiteltu2:1,ruuan_paastot_lajiteltu:1,ruuat2:1,ruuat:1,ruuill:1,saadaan:1,saakka:2,saamiseksi:4,sama:2,sarak:[1,2],saraketta:1,sarakkeeksi:1,sarakkeen:[1,3],sarakkeeseen:2,sarakkeet:2,sarakkeiden:[1,2,3],sarakkeisiin:3,sarjaa:1,se:[1,3,4],see:1,sekaisin:1,sekavalta:1,sekoituksia:1,sektoreista:1,sektoreittain:1,selkeyden:1,selvitettiin:2,sen:[1,3],set:1,set_xlim:3,settingwithcopywarn:1,seuraamalla:4,seuraava:1,show:[1,2,3],sii:[1,2],siihen:[1,3],sijasta:2,sill:1,sinn:1,sinul:4,sinun:1,sitten:1,sivul:4,slice:1,smaller_than_140m:3,sopivaksi:1,sopivan:1,sopivat:[1,2,3],sort_valu:1,stabl:1,stackplot:3,subplot:3,summaamalla:1,summan:1,suomalaisten:2,suomen:2,suomi:2,suoraan:3,suoraviivaista:1,suppli:1,suunniteltu:4,suunnittelun:4,suuria:1,suuruuden:1,suuruudet:1,syntyvien:1,taa:1,tai:[1,3],takaa:3,takaisin:1,tallennetaan:1,tallennettavat:1,tallentaa:[1,3],tapa:3,tapauksessa:[1,2,3],tarjolla:1,tarkastella:1,tarkasteltavaksi:1,tarkastelun:1,tarkasteluun:[1,2,3],tarkistetaan:1,tarkoittaa:2,tarkoituksena:2,tarvinnut:1,tarvitaan:1,tarvitset:3,tavalla:2,tekeminen:1,tekemiseen:4,tekstit:[1,2,3],testailemalla:1,tiedoista:1,tiedosta:1,tiedosto:[1,2],tiedostoa:[1,2,3],tiedostossa:2,tiedot:[1,3],tieto:[1,3],tietojen:3,tietokirjastot:[1,2,3],tietysti:3,time:3,tiputtaa:2,titl:[1,2,3],tmp:1,toimii:2,toimintaideana:1,toinen:[1,2],toisen:1,toisiinsa:1,toisinaan:3,toistetaan:1,toivottavasti:[1,4],total:1,toteuttaa:3,tule:[1,2,3],tulevat:1,tulisi:[1,2],tulostaa:[2,3],tunnu:[1,2,3],tuppaa:1,tyopajat:3,unit:2,upper:3,useammankin:3,useat:4,usein:2,useita:1,user_guid:1,uskoa:1,uudestaan:1,uusi:1,uuteen:1,uutta:1,vaihda:1,vaihtaa:1,vaihtamalla:1,vaihtelemalla:1,vaikealta:1,vain:[1,2,3],valita:2,valitaan:[1,2,3],valitsemalla:4,valitsemasi:1,valitset:1,valittu:[1,2],valmiiksi:1,valmistellaan:[2,3],valtioihin:2,valtiokohtaiset:2,valu:[1,2],varmaan:1,varsin:1,varten:[1,3],vasemmalla:4,vasemmassa:3,vastaava:1,vastaavasti:1,vastausta:[1,2,3],versu:1,vertaillaan:2,vertailtavista:2,vertailun:2,vertautuvat:1,vertikaalinen:1,vertikaaliseen:1,vertikaalisen:1,vertikaalista:1,view:1,viimeiseen:2,viivaa:3,viivakuvaajan:[2,3],viivan:1,viivat:2,viivojen:[2,3],virhekoodi:1,voi:[1,2,3,4],voidaan:[1,2,3],voit:[1,2,3,4],vuodet:[2,3],vuoksi:[1,2],vuosi:2,vuosilukujen:2,vuosiluvut:3,vuosina:2,world:3,x:[1,2,3],xlabel:[1,2,3],xtick:1,y:[1,2,3],year:[1,3],yellow:1,yhden:[1,3],yht:1,yhteen:[1,2],yksi:[1,2],yksinkertainen:3,ylabel:[1,2,3],yleisesti:1,yli:3,zero:1},titles:["Mallipohjat","Pylv\u00e4sdiagrammi 1 \u2013\u00a0data sarakkeesta","Viivakuvaaja 1 - data yhdelt\u00e4 rivilt\u00e4","Viivakuvaaja 2 - data yhdest\u00e4 sarakkeesta","Tervetuloa avoimen datan pariin"],titleterms:{"1":[1,2],"2":3,"k\u00e4ynnist\u00e4minen":4,"lis\u00e4t\u00e4":2,"pylv\u00e4sdiagrammi":1,"rivilt\u00e4":2,"t\u00e4m\u00e4":[1,2,3],"t\u00e4rke\u00e4\u00e4":1,"t\u00e4ss\u00e4":2,"t\u00e4st\u00e4":3,"yhdelt\u00e4":2,"yhdest\u00e4":[1,3],avoimen:4,binderissa:4,data:[1,2,3],datan:4,datasta:3,haluat:2,huomata:1,jo:2,koodi:2,kumulatiivinen:1,kumulatiivisen:3,kuvaajaan:2,kuvaajan:3,mallipohjat:0,muokattavaksi:[1,2,3],notebookin:4,pariin:4,pohja:[1,2,3],rivin:2,samasta:3,sarakkeesta:[1,3],siihen:2,sinul:[1,2,3],tapau:3,tehti:[1,2,3],tekeminen:3,tervetuloa:4,tiedot:2,toisen:2,useamman:3,viivakuvaaja:[2,3],viivan:3}})

diff --git a/harjoitukset/pylvasdiagrammi1.html b/harjoitukset/pylvasdiagrammi1.html
@@ -743,8 +743,7 @@ tiedot joko lajitellusta tiedosta tai alkuperäisestä, ei sekoituksia.</p>
 <span class="c1"># Tämä voi näyttää sekavalta ja vaikealta, niin listaan tänne valmiiksi ne asiat, mitä sinne pitää muuttaa.</span>
 
 <span class="k">for</span> <span class="n">i</span> <span class="ow">in</span> <span class="nb">range</span><span class="p">(</span><span class="nb">len</span><span class="p">(</span><span class="n">ruuan_paastot</span><span class="p">)):</span> <span class="c1"># se muuttuja, joka sisältää datasetin</span>
-    <span class="n">ruuan_paastot</span><span class="p">[</span><span class="s2">&quot;Total&quot;</span><span class="p">][</span><span class="n">i</span><span class="p">]</span> <span class="c1"># Datasetin muuttuja ja se sarake, joka on täynnä nollia</span>
-                                <span class="o">=</span> <span class="p">(</span><span class="n">ruuan_paastot</span><span class="p">[</span><span class="s1">&#39;food_emissions_land_use&#39;</span><span class="p">][</span><span class="n">i</span><span class="p">]</span> <span class="c1"># datasetin muuttuja ja sarakkeen nimi</span>
+    <span class="n">ruuan_paastot</span><span class="p">[</span><span class="s2">&quot;Total&quot;</span><span class="p">][</span><span class="n">i</span><span class="p">]</span> <span class="o">=</span> <span class="p">(</span><span class="n">ruuan_paastot</span><span class="p">[</span><span class="s1">&#39;food_emissions_land_use&#39;</span><span class="p">][</span><span class="n">i</span><span class="p">]</span> <span class="c1"># datasetin sarake ja datasetin muuttuja, sarakkeen nimi</span>
                                  <span class="o">+</span> <span class="n">ruuan_paastot</span><span class="p">[</span><span class="s1">&#39;food_emissions_farm&#39;</span><span class="p">][</span><span class="n">i</span><span class="p">]</span> <span class="c1"># ja jokainen sarake erikseen,</span>
                                  <span class="o">+</span> <span class="n">ruuan_paastot</span><span class="p">[</span><span class="s1">&#39;food_emissions_animal_feed&#39;</span><span class="p">][</span><span class="n">i</span><span class="p">]</span> <span class="c1"># jotka haluat mukaan laskuun</span>
                                  <span class="o">+</span> <span class="n">ruuan_paastot</span><span class="p">[</span><span class="s1">&#39;food_emissions_processing&#39;</span><span class="p">][</span><span class="n">i</span><span class="p">]</span>
@@ -760,13 +759,124 @@ tiedot joko lajitellusta tiedosta tai alkuperäisestä, ei sekoituksia.</p>
 </div>
 </div>
 <div class="cell_output docutils container">
-<div class="output traceback highlight-ipythontb notranslate"><div class="highlight"><pre><span></span>  <span class="n">Input</span> <span class="n">In</span> <span class="p">[</span><span class="mi">6</span><span class="p">]</span>
-    <span class="o">=</span> <span class="p">(</span><span class="n">ruuan_paastot</span><span class="p">[</span><span class="s1">&#39;food_emissions_land_use&#39;</span><span class="p">][</span><span class="n">i</span><span class="p">]</span> <span class="c1"># datasetin muuttuja ja sarakkeen nimi</span>
-    <span class="o">^</span>
-<span class="ne">IndentationError</span>: unexpected indent
+<div class="output stderr highlight-myst-ansi notranslate"><div class="highlight"><pre><span></span>/tmp/ipykernel_1721/1263451987.py:5: SettingWithCopyWarning: 
+A value is trying to be set on a copy of a slice from a DataFrame
+
+See the caveats in the documentation: https://pandas.pydata.org/pandas-docs/stable/user_guide/indexing.html#returning-a-view-versus-a-copy
+  ruuan_paastot[&quot;Total&quot;][i] = (ruuan_paastot[&#39;food_emissions_land_use&#39;][i] # datasetin sarake ja datasetin muuttuja, sarakkeen nimi
 </pre></div>
 </div>
-</div>
+<div class="output text_html"><div>
+<style scoped>
+    .dataframe tbody tr th:only-of-type {
+        vertical-align: middle;
+    }
+
+    .dataframe tbody tr th {
+        vertical-align: top;
+    }
+
+    .dataframe thead th {
+        text-align: right;
+    }
+</style>
+<table border="1" class="dataframe">
+  <thead>
+    <tr style="text-align: right;">
+      <th></th>
+      <th>Entity</th>
+      <th>Code</th>
+      <th>Year</th>
+      <th>food_emissions_land_use</th>
+      <th>food_emissions_farm</th>
+      <th>food_emissions_animal_feed</th>
+      <th>food_emissions_processing</th>
+      <th>food_emissions_transport</th>
+      <th>food_emissions_retail</th>
+      <th>food_emissions_packaging</th>
+      <th>food_emissions_losses</th>
+      <th>Total</th>
+    </tr>
+  </thead>
+  <tbody>
+    <tr>
+      <th>0</th>
+      <td>Apples</td>
+      <td>NaN</td>
+      <td>2018</td>
+      <td>-0.028951</td>
+      <td>0.225816</td>
+      <td>0.000000</td>
+      <td>0.003820</td>
+      <td>0.095804</td>
+      <td>0.016578</td>
+      <td>0.044526</td>
+      <td>0.070808</td>
+      <td>0.428401</td>
+    </tr>
+    <tr>
+      <th>1</th>
+      <td>Bananas</td>
+      <td>NaN</td>
+      <td>2018</td>
+      <td>-0.025534</td>
+      <td>0.269618</td>
+      <td>0.000000</td>
+      <td>0.060146</td>
+      <td>0.295830</td>
+      <td>0.020981</td>
+      <td>0.065670</td>
+      <td>0.175185</td>
+      <td>0.861896</td>
+    </tr>
+    <tr>
+      <th>2</th>
+      <td>Barley</td>
+      <td>NaN</td>
+      <td>2018</td>
+      <td>0.008676</td>
+      <td>0.176377</td>
+      <td>0.000000</td>
+      <td>0.127703</td>
+      <td>0.035351</td>
+      <td>0.263587</td>
+      <td>0.496786</td>
+      <td>0.070692</td>
+      <td>1.179171</td>
+    </tr>
+    <tr>
+      <th>3</th>
+      <td>Beef (beef herd)</td>
+      <td>NaN</td>
+      <td>2018</td>
+      <td>23.237536</td>
+      <td>56.228063</td>
+      <td>2.680979</td>
+      <td>1.811083</td>
+      <td>0.494125</td>
+      <td>0.233538</td>
+      <td>0.352084</td>
+      <td>14.439998</td>
+      <td>99.477405</td>
+    </tr>
+    <tr>
+      <th>4</th>
+      <td>Beef (dairy herd)</td>
+      <td>NaN</td>
+      <td>2018</td>
+      <td>1.266022</td>
+      <td>21.915529</td>
+      <td>3.503673</td>
+      <td>1.547664</td>
+      <td>0.592410</td>
+      <td>0.254032</td>
+      <td>0.374549</td>
+      <td>3.847515</td>
+      <td>33.301395</td>
+    </tr>
+  </tbody>
+</table>
+</div></div></div>
 </div>
 <div class="cell docutils container">
 <div class="cell_input docutils container">
